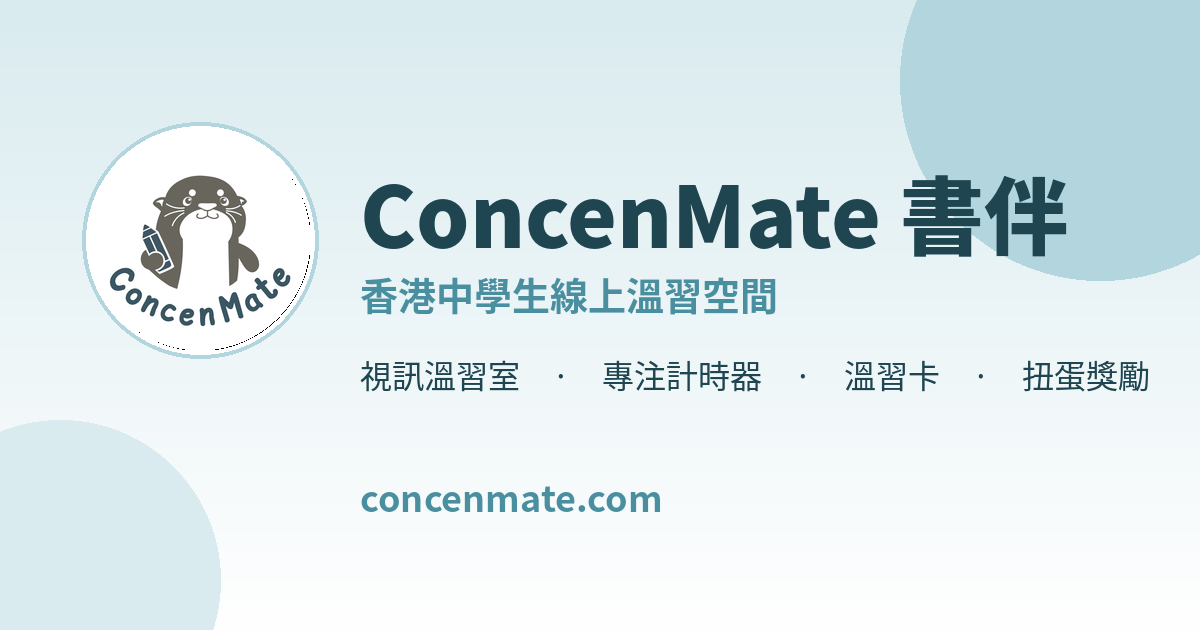
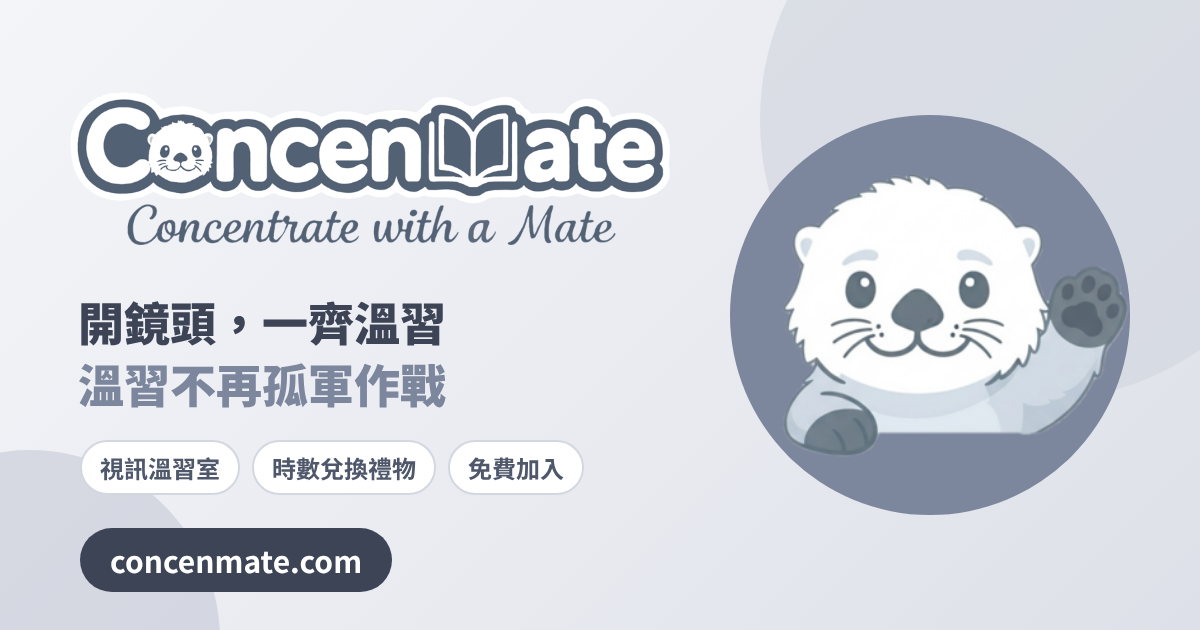
Add files via upload

diff --git a/index.html b/index.html
@@ -6,7 +6,7 @@
        打開檔案唔使拉就見到，方便快速核對版本）
        ======================================== -->
   <script>
-    window.APP_VERSION = "v1.209.0"; // 每次推送 GitHub 前，喺呢度改版號
+    window.APP_VERSION = "v1.210.0"; // 每次推送 GitHub 前，喺呢度改版號
   </script>
 
   <meta charset="UTF-8">
@@ -37,19 +37,19 @@
   <!-- Open Graph（Facebook／WhatsApp／Telegram 等分享連結時顯示嘅卡片） -->
   <meta property="og:type" content="website">
   <meta property="og:site_name" content="ConcenMate 書伴">
-  <meta property="og:title" content="ConcenMate 書伴 - 香港中學生線上溫習空間">
-  <meta property="og:description" content="視訊溫習室、專注計時器及溫習夥伴配對，助你保持專注、遠離分心，與同學一起高效溫習。">
+  <meta property="og:title" content="ConcenMate 書伴 - 開鏡頭，一齊溫習">
+  <meta property="og:description" content="以 Body Doubling 心理學為核心的線上溫習室：開鏡頭與書伴一起溫習，溫習時數可兌換禮物，免費加入。適合中學生及大學生。">
   <meta property="og:url" content="https://concenmate.com/">
-  <meta property="og:image" content="https://concenmate.com/og-image.png">
+  <meta property="og:image" content="https://concenmate.com/og-image.png?v=2">
   <meta property="og:image:width" content="1200">
   <meta property="og:image:height" content="630">
   <meta property="og:locale" content="zh_HK">
 
   <!-- Twitter/X 分享卡片 -->
   <meta name="twitter:card" content="summary_large_image">
-  <meta name="twitter:title" content="ConcenMate 書伴 - 香港中學生線上溫習空間">
-  <meta name="twitter:description" content="視訊溫習室、專注計時器及溫習夥伴配對，助你保持專注、遠離分心，與同學一起高效溫習。">
-  <meta name="twitter:image" content="https://concenmate.com/og-image.png">
+  <meta name="twitter:title" content="ConcenMate 書伴 - 開鏡頭，一齊溫習">
+  <meta name="twitter:description" content="以 Body Doubling 心理學為核心的線上溫習室：開鏡頭與書伴一起溫習，溫習時數可兌換禮物，免費加入。適合中學生及大學生。">
+  <meta name="twitter:image" content="https://concenmate.com/og-image.png?v=2">
 
   <!-- Favicon／瀏覽器分頁圖示、手機主畫面圖示 -->
   <link rel="icon" href="favicon.ico" sizes="any">
@@ -325,6 +325,8 @@
        20x20 嘅盒仔確保換咗圖之後排位唔會走樣。 */
     .nav-icon { display: inline-flex; align-items: center; justify-content: center; width: 20px; height: 20px; flex-shrink: 0; }
     .nav-icon img { width: 100%; height: 100%; object-fit: contain; border-radius: 4px; }
+    .nav-icon svg { width: 20px; height: 20px; display: block; }
+    .nav-btn:not(.active):not(:hover) .nav-icon { color: var(--brand-600); }
 
     .auth-wall-container {
       max-width: 480px;
@@ -1705,7 +1707,7 @@
         <button class="nav-btn student-only-nav" id="nav-btn-verification" type="button" onclick="switchTab('verification', this)"><span class="nav-icon" id="nav-icon-verification"></span> <span class="nav-text" data-i18n="nav.verification">學生身份驗證</span></button>
         <!-- 導師帳戶專用：淨係批核通過（role==='tutor'）先會顯示，見
              applyRoleBasedSidebar()。 -->
-        <button class="nav-btn" id="nav-btn-tutor-materials" type="button" onclick="switchTab('tutor-materials', this)" style="display:none;"><span class="nav-icon"></span> <span class="nav-text" data-i18n="nav.tutorMaterials">管理教材</span></button>
+        <button class="nav-btn" id="nav-btn-tutor-materials" type="button" onclick="switchTab('tutor-materials', this)" style="display:none;"><span class="nav-icon" id="nav-icon-tutorMaterials"></span> <span class="nav-text" data-i18n="nav.tutorMaterials">管理教材</span></button>
       </div>
     </aside>
 
@@ -2040,7 +2042,7 @@
                    會俾 .fs-hide-in-fullscreen 個 CSS 規則隱藏晒，個鎖 icon 會跟埋一齊
                    唔見咗。 -->
               <button type="button" id="room-password-lock-btn" onclick="window.showRoomPasswordPopup()" title="查看房間密碼" style="display:none; align-items:center; justify-content:center; background:none; border:none; cursor:pointer; padding:2px;">
-                <span class="nav-icon" id="nav-icon-roomLock" style="width:20px; height:20px; font-size:18px;">🔒</span>
+                <span class="nav-icon" id="nav-icon-roomLock" style="width:20px; height:20px;"></span>
               </button>
 
               <div class="room-bar-btn-group" style="display:flex; gap:6px; align-items:center; flex-wrap:wrap;">
@@ -3919,6 +3921,36 @@
     window.addEventListener('appinstalled', dismiss);
     if (isIOSSafari || isIOSChrome) window.addEventListener('load', function () { setTimeout(function () { tryShow(isIOSSafari ? 'ios' : 'ioschrome', 0); }, 6000); });
   })();
+  </script>
+
+  <!-- v1.210.0：功能表線條圖示（Lucide，MIT 授權）。取代原本嘅 emoji；
+       管理員喺後台「功能圖示」上傳咗自訂圖片嘅話，會由 admin-panel.js 優先套用。 -->
+  <script>
+  // Lucide 風格線條圖示（MIT 授權），24×24，stroke = currentColor
+  window.CM_NAV_SVGS = {
+    home: '<path d="M15 21v-8a1 1 0 0 0-1-1h-4a1 1 0 0 0-1 1v8"/><path d="M3 10a2 2 0 0 1 .709-1.528l7-5.999a2 2 0 0 1 2.582 0l7 5.999A2 2 0 0 1 21 10v9a2 2 0 0 1-2 2H5a2 2 0 0 1-2-2z"/>',
+    room: '<path d="m16 13 5.223 3.482a.5.5 0 0 0 .777-.416V7.87a.5.5 0 0 0-.752-.432L16 10.5"/><rect x="2" y="6" width="14" height="12" rx="2"/>',
+    qa: '<path d="M7.9 20A9 9 0 1 0 4 16.1L2 22Z"/><path d="M9.09 9a3 3 0 0 1 5.83 1c0 2-3 3-3 3"/><path d="M12 17h.01"/>',
+    vip: '<path d="M12 7v14"/><path d="M3 18a1 1 0 0 1-1-1V4a1 1 0 0 1 1-1h5a4 4 0 0 1 4 4 4 4 0 0 1 4-4h5a1 1 0 0 1 1 1v13a1 1 0 0 1-1 1h-6a3 3 0 0 0-3 3 3 3 0 0 0-3-3z"/>',
+    store: '<rect x="3" y="8" width="18" height="4" rx="1"/><path d="M12 8v13"/><path d="M19 12v7a2 2 0 0 1-2 2H7a2 2 0 0 1-2-2v-7"/><path d="M7.5 8a2.5 2.5 0 0 1 0-5A4.8 8 0 0 1 12 8a4.8 8 0 0 1 4.5-5 2.5 2.5 0 0 1 0 5"/>',
+    leaderboard: '<path d="M6 9H4.5a2.5 2.5 0 0 1 0-5H6"/><path d="M18 9h1.5a2.5 2.5 0 0 0 0-5H18"/><path d="M4 22h16"/><path d="M10 14.66V17c0 .55-.47.98-.97 1.21C7.85 18.75 7 20.24 7 22"/><path d="M14 14.66V17c0 .55.47.98.97 1.21C16.15 18.75 17 20.24 17 22"/><path d="M18 2H6v7a6 6 0 0 0 12 0V2Z"/>',
+    social: '<path d="M16 21v-2a4 4 0 0 0-4-4H6a4 4 0 0 0-4 4v2"/><circle cx="9" cy="7" r="4"/><path d="M22 21v-2a4 4 0 0 0-3-3.87"/><path d="M16 3.13a4 4 0 0 1 0 7.75"/>',
+    diary: '<path d="M13.4 2H6a2 2 0 0 0-2 2v16a2 2 0 0 0 2 2h12a2 2 0 0 0 2-2v-7.4"/><path d="M2 6h4"/><path d="M2 10h4"/><path d="M2 14h4"/><path d="M2 18h4"/><path d="M21.378 5.626a1 1 0 1 0-3.004-3.004l-5.01 5.012a2 2 0 0 0-.506.854l-.837 2.87a.5.5 0 0 0 .62.62l2.87-.837a2 2 0 0 0 .854-.506z"/>',
+    verification: '<path d="M21.42 10.922a1 1 0 0 0-.019-1.838L12.83 5.18a2 2 0 0 0-1.66 0L2.6 9.08a1 1 0 0 0 0 1.832l8.57 3.908a2 2 0 0 0 1.66 0z"/><path d="M22 10v6"/><path d="M6 12.5V16a6 3 0 0 0 12 0v-3.5"/>',
+    roomLock: '<rect width="18" height="11" x="3" y="11" rx="2" ry="2"/><path d="M7 11V7a5 5 0 0 1 10 0v4"/>',
+    tutorMaterials: '<path d="M20 20a2 2 0 0 0 2-2V8a2 2 0 0 0-2-2h-7.9a2 2 0 0 1-1.69-.9L9.6 3.9A2 2 0 0 0 7.93 3H4a2 2 0 0 0-2 2v13a2 2 0 0 0 2 2Z"/>'
+  };
+  window.cmNavSvg = function (key) {
+    var p = window.CM_NAV_SVGS[key]; if (!p) return '';
+    return '<svg viewBox="0 0 24 24" width="20" height="20" fill="none" stroke="currentColor" stroke-width="1.9" stroke-linecap="round" stroke-linejoin="round" aria-hidden="true">' + p + '</svg>';
+  };
+  // 頁面一載入就先畫好預設圖示（唔使等 Firestore）
+  document.addEventListener('DOMContentLoaded', function () {
+    Object.keys(window.CM_NAV_SVGS).forEach(function (k) {
+      var el = document.getElementById('nav-icon-' + k);
+      if (el && !el.innerHTML.trim()) el.innerHTML = window.cmNavSvg(k);
+    });
+  });
   </script>
 
   <script src="i18n.js"></script>

diff --git a/admin-panel.js b/admin-panel.js
@@ -1363,14 +1363,18 @@
     // 唔使額外寫套邏輯——文件名 admin_config/navIcons 因為歷史原因冇改
     // 名，但已經涵蓋所有「可自訂圖示」，唔止側邊欄。
     const NAV_ICON_ITEMS = [
-      { key: 'home', label: '主頁', emoji: '🏠' },
-      { key: 'room', label: '視訊溫習室', emoji: '📹' },
-      { key: 'qa', label: '疑難解答區', emoji: '❓' },
-      { key: 'vip', label: '教材中心', emoji: '👑' },
-      { key: 'store', label: '時數扭蛋機', emoji: '🎁' },
-      { key: 'social', label: '夥伴與讀書會', emoji: '👥' },
-      { key: 'verification', label: '學生身份驗證', emoji: '🎓' },
-      { key: 'roomLock', label: '房間密碼鎖（房內查看密碼按鈕）', emoji: '🔒' }
+      // v1.210.0：預設圖示改為線條 SVG（見 index.html 嘅 window.cmNavSvg），唔再用 emoji
+      { key: 'home', label: '主頁' },
+      { key: 'room', label: '視訊溫習室' },
+      { key: 'qa', label: '疑難解答區' },
+      { key: 'vip', label: '教材中心' },
+      { key: 'store', label: '時數扭蛋機' },
+      { key: 'leaderboard', label: '溫習排行榜' },
+      { key: 'social', label: '書伴廣場' },
+      { key: 'diary', label: '溫習日記' },
+      { key: 'verification', label: '學生身份驗證' },
+      { key: 'tutorMaterials', label: '管理教材（導師）' },
+      { key: 'roomLock', label: '房間密碼鎖（房內查看密碼按鈕）' }
     ];
 
     // 全站共用嘅「目前生效緊嘅圖示連結」——冇自訂圖嘅 key 就唔會出現喺
@@ -1387,7 +1391,7 @@
         const url = window.NAV_ICON_URLS[item.key];
         el.innerHTML = url
           ? `<img src="${url}" alt="${escapeHtml(item.label)}">`
-          : escapeHtml(item.emoji);
+          : (typeof window.cmNavSvg === 'function' ? window.cmNavSvg(item.key) : '');
       });
     }
     window.applyNavIconsToSidebar = applyNavIconsToSidebar;
@@ -1413,7 +1417,7 @@
         const inputId = `admin-navicon-input-${item.key}`;
         const thumbInner = url
           ? `<img src="${url}" style="width:100%; height:100%; object-fit:contain;">`
-          : `<span style="font-size:22px;">${escapeHtml(item.emoji)}</span>`;
+          : `<span style="color:var(--brand-600); display:inline-flex;">${typeof window.cmNavSvg === 'function' ? window.cmNavSvg(item.key) : ''}</span>`;
         return `
           <div style="display:flex; align-items:center; gap:14px; padding:10px 0; border-bottom:1px solid #F0F0F0;">
             <div id="${thumbId}" onclick="document.getElementById('${inputId}').click()" title="點擊這裡上傳圖片" style="width:52px; height:52px; border-radius:10px; background:#F4F5F8; border:1px dashed #D3D7E0; display:flex; align-items:center; justify-content:center; cursor:pointer; overflow:hidden; flex-shrink:0;">${thumbInner}</div>
